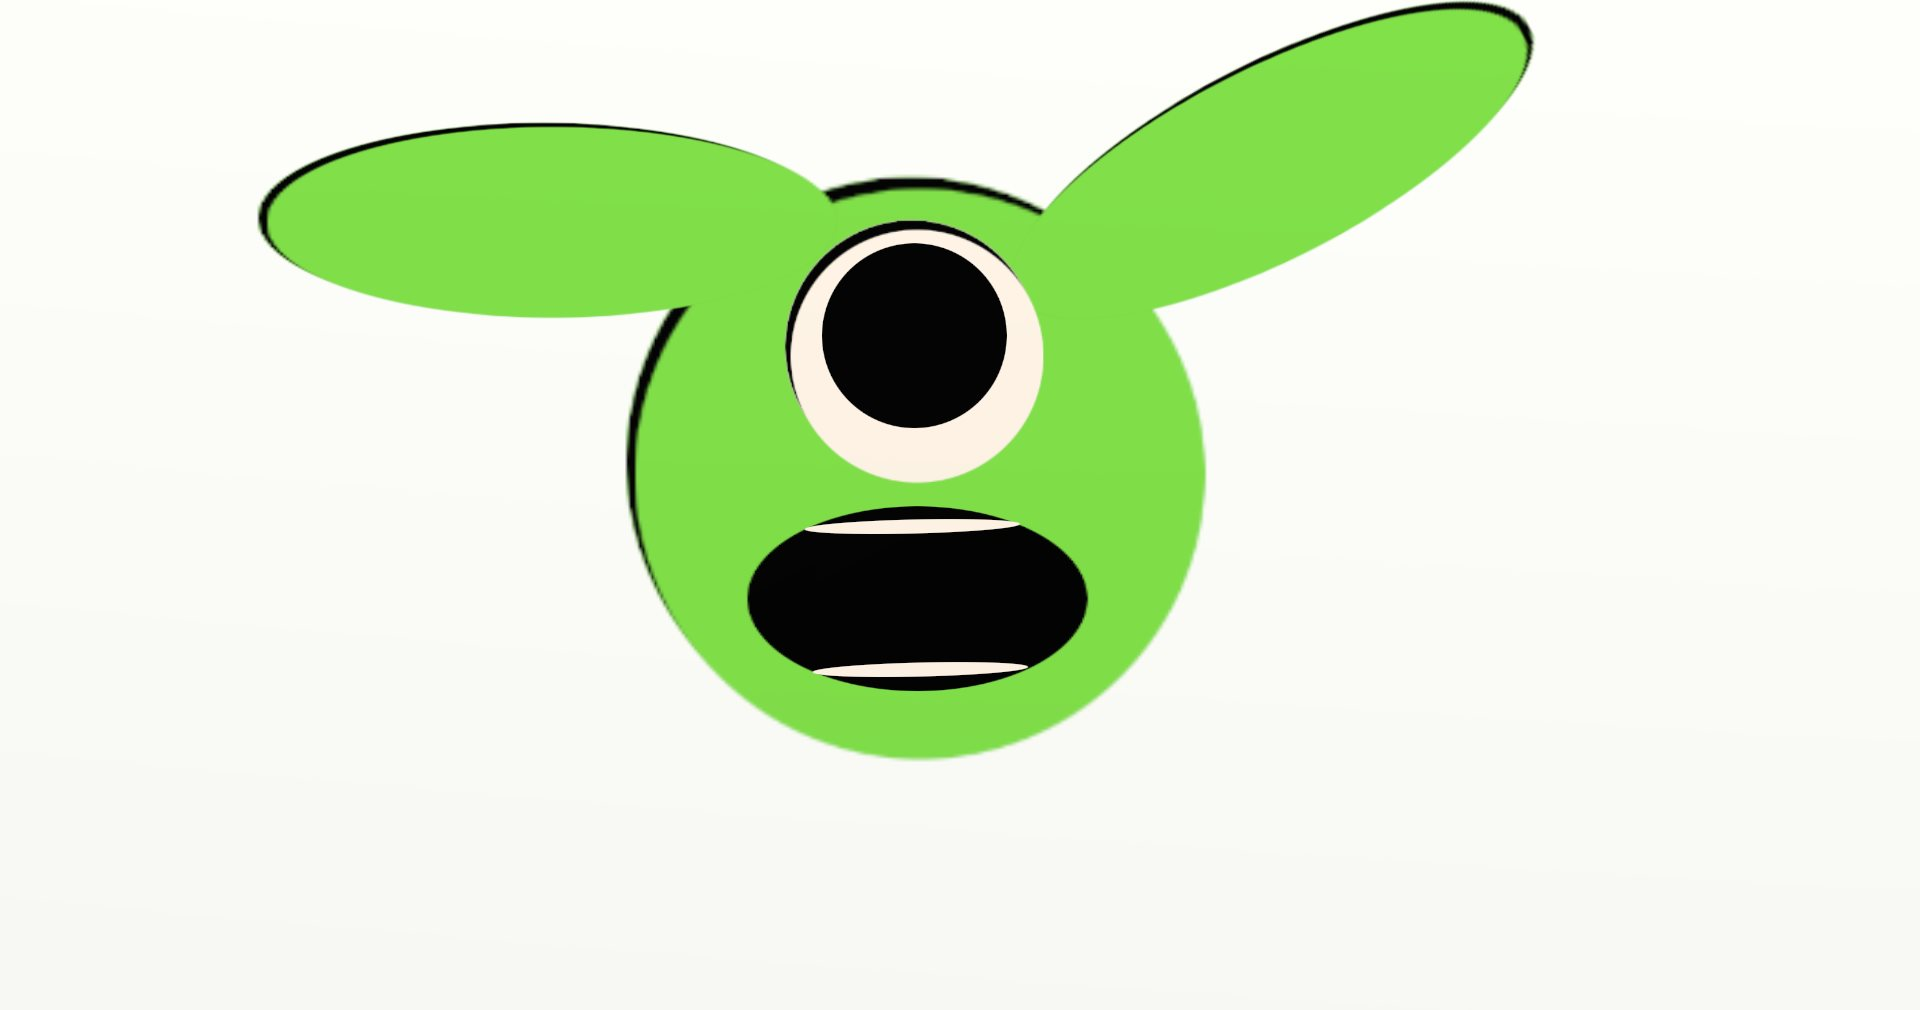
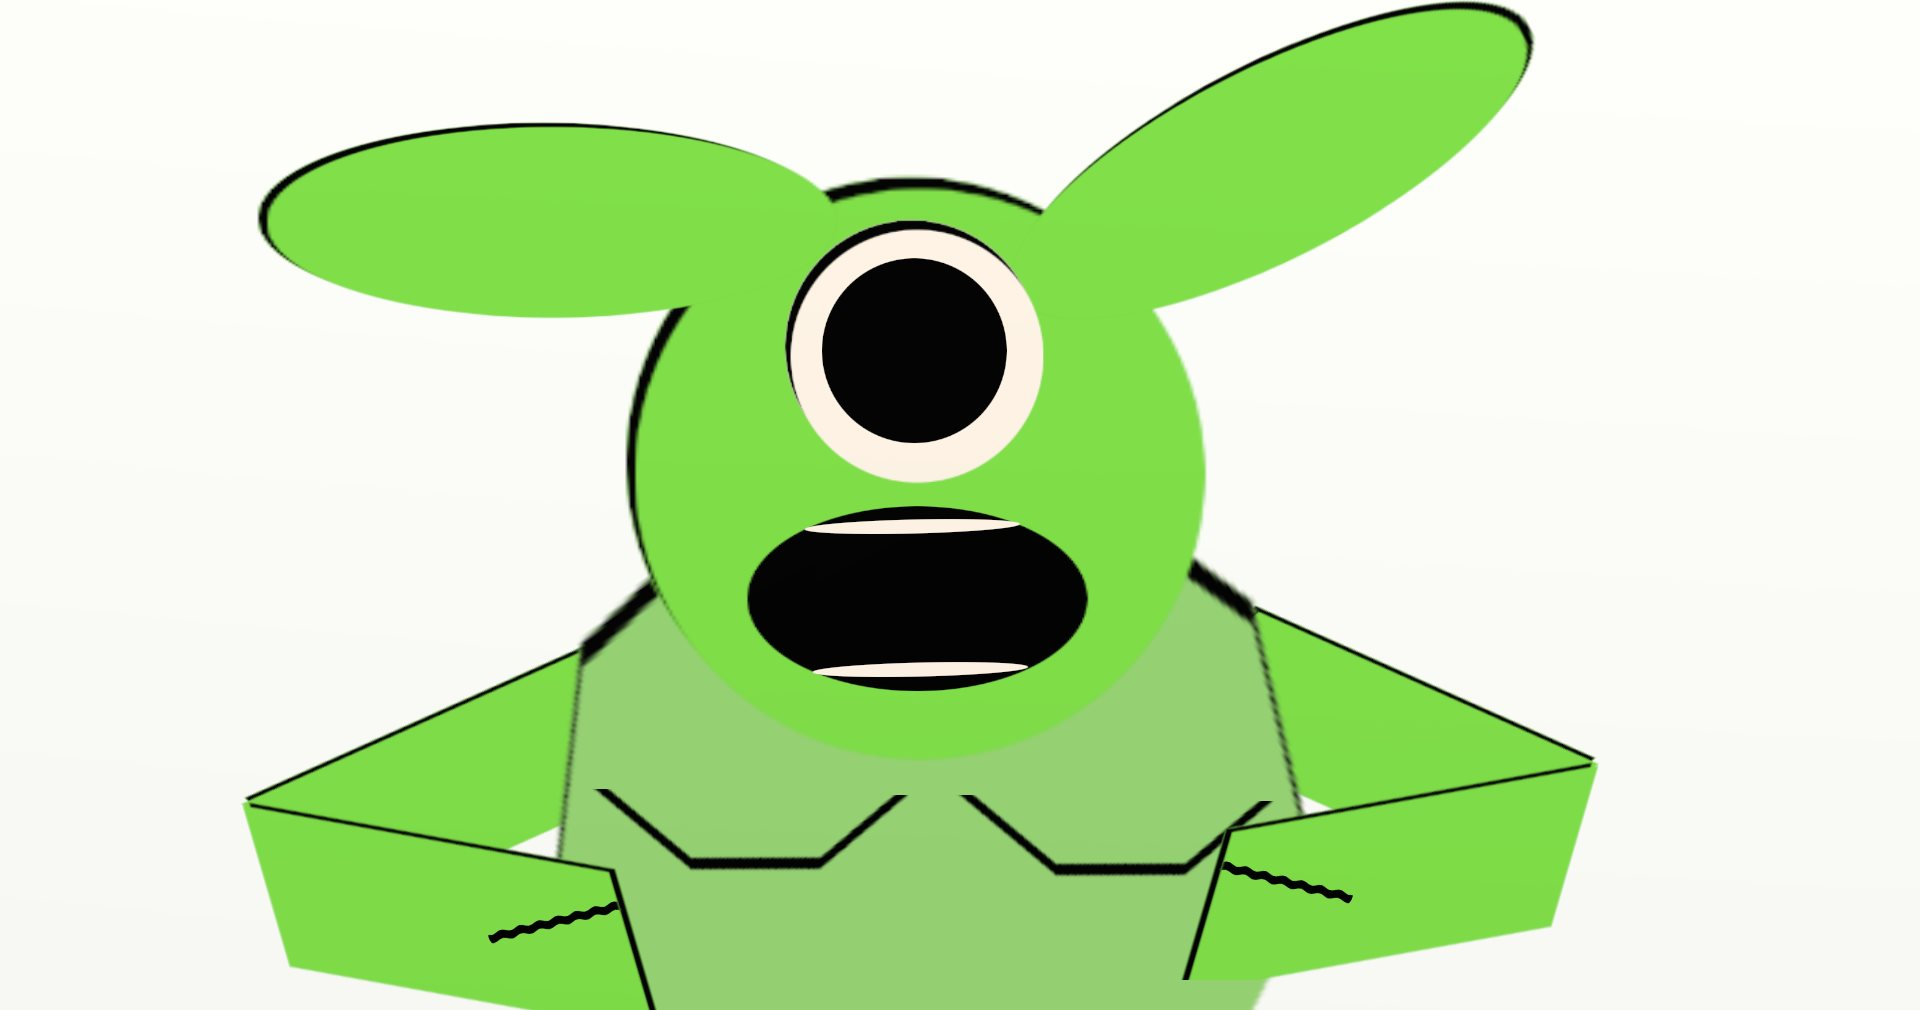
Replaced head animation with full body animation.

diff --git a/FINAL/index.html b/FINAL/index.html
@@ -28,6 +28,10 @@
           <img src="images/Alien001d.jpg" alt="Delphine" height="808px" width="1660px">
           <img src="images/Alien001e.jpg" alt="Echqua" height="808px" width="1660px">
           <img src="images/Alien001f.jpg" alt="Echqua" height="808px" width="1660px">
+          <img src="images/Alien001g.jpg" alt="Echqua" height="808px" width="1660px">
+          <img src="images/Alien001h.jpg" alt="Echqua" height="808px" width="1660px">
+          <img src="images/Alien001i.jpg" alt="Echqua" height="808px" width="1660px">
+          <img src="images/Alien001j.jpg" alt="Echqua" height="808px" width="1660px">
         </div>
         <img src="images/next.jpg" class="next" alt="Next"  height="92.5px"  width="120px">
       </div>

diff --git a/FINAL/readme.md b/FINAL/readme.md
@@ -14,7 +14,7 @@ img and vice versa.
 
 #Take Away
 I originally wanted the animation to happen automatically; as of now, the animation
-is semi-automatic. 
+is semi-automatic.
 
 #Potential Changes
 In the future I would like the images to change automatically with one-press of
